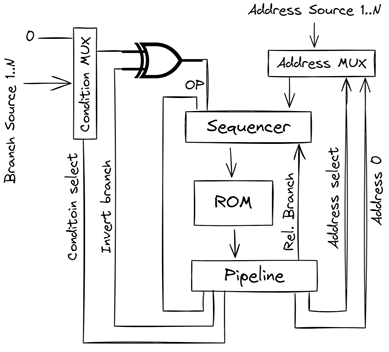
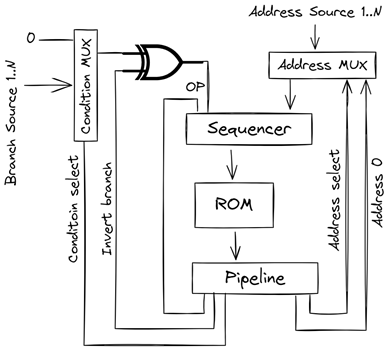
Check for leading/trailing branches

Changed region(s): [[0.0, 0.0, 0.9897, 0.9972]]

diff --git a/Verilog/microcoded/roms/CompilerTest.py b/Verilog/microcoded/roms/CompilerTest.py
@@ -8,5 +8,94 @@ class TestStringMethods(unittest.TestCase):
         p = Parser()
         self.assertEqual(str(p.parse('const control = 7;')), '(None (const ID(control) INT(7)))')
 
+    def test_loop(self):
+        p = Parser()
+        tree = p.parse('''def main {
+                       loop { a=1; }
+                       do { b=1; } while 1;
+                       c=1, call X;
+                       d=1, return;
+                       e=1, while 1 {
+                            f=1;
+                       }
+                       g=1;
+                       h=1, if 1 { i=1; }
+                       }''')
+        stat_list = tree[0][1]
+        tailBranches = [self.isTailBranch(stat) for stat in stat_list]
+        self.assertEqual(tailBranches, [True, True, True, True, True, False, False])
+        headBranches = [self.isHeadBranch(stat) for stat in stat_list]
+        self.assertEqual(headBranches, [False, False, True, True, True, False, True])
+
+    def getBranch(self, stat):
+        if stat[0].value.name in ('loop', 'do'):
+            return stat[0].value.name
+        for op in stat:
+            if op.value.name in ('call', 'return', 'while', 'if'):
+                return op.value.name
+        return ''
+
+    def isHeadBranch(self, stat):
+        return self.getBranch(stat) in ('call', 'return', 'while', 'if')
+
+    def isTailBranch(self, stat):
+        return self.getBranch(stat) in ('loop', 'do', 'call', 'return', 'while')
+
+    def test_loop_error(self):
+        p = Parser()
+        try:
+            tree = p.parse('''def main {
+                        loop { loop { a=1; } }
+                        }''')
+            self.fail()
+        except Exception as e:
+            self.assertTrue(str(e).endswith('loop not allowed here'))
+
+    def test_while_error(self):
+        p = Parser()
+        try:
+            tree = p.parse('''def main {
+                        loop { while 1 { a=1; } }
+                        }''')
+            self.fail()
+        except Exception as e:
+            self.assertTrue(str(e).endswith('while not allowed here'))
+
+    def test_do_error(self):
+        p = Parser()
+        try:
+            tree = p.parse('''def main {
+                        loop { do { a=1; } while 1; } }
+                        }''')
+            self.fail()
+        except Exception as e:
+            self.assertTrue(str(e).endswith('do not allowed here'))
+
+    def test_call_error(self):
+        p = Parser()
+        try:
+            tree = p.parse('''def main {
+                        loop { call X; } }
+                        }''')
+            self.fail()
+        except Exception as e:
+            self.assertTrue(str(e).endswith('call not allowed here'))
+
+    def test_return_error(self):
+        p = Parser()
+        try:
+            tree = p.parse('''def main {
+                        loop { return; } }
+                        }''')
+            self.fail()
+        except Exception as e:
+            self.assertTrue(str(e).endswith('return not allowed here'))
+
+    def test_if_error(self):
+        p = Parser()
+        tree = p.parse('''def main {
+                    loop { if 1 { a=1; } }
+                    }''')
+
 if __name__ == '__main__':
     unittest.main()

diff --git a/Verilog/microcoded/roms/Generator.py b/Verilog/microcoded/roms/Generator.py
@@ -20,7 +20,7 @@ class MicroWord(object):
         self.dest_proc_name = None
         self.pc = 0
 
-    def update(self, field_name, value, lineNumber=-1, check=True):
+    def update(self, field_name, value, lineNumber=-1):
         if field_name not in self.fields:
             raise Exception(f'line {lineNumber}, No such field: {field_name}')
         self.field_values[field_name] = value
@@ -33,17 +33,13 @@ class MicroWord(object):
         else:
             shift = i2
         mask <<= shift
-        if mask & self.used_bits != 0 and check:
+        if mask & self.used_bits != 0:
             raise Exception(f"line {lineNumber}: field '{field_name}' already assigned")
         self.used_bits |= mask
         value <<= shift
         self.word &= ~mask
         self.word |= value
         return value
-
-    def updateAddress(self, offset):
-        value = self.field_values['seq.address'] + offset
-        self.update('seq.address', value, check=False)
 
     def is_branch(self):
         return self.field_values['seq.op'] != 0 or self.field_values['seq.condition'] != 0
@@ -53,7 +49,7 @@ class MicroWord(object):
             if self.dest_proc_name not in procAddresses:
                 raise Exception(f'Nonexistent procedure: {self.dest_proc_name}')
             addr = procAddresses[self.dest_proc_name]
-            self.update('seq.address', addr-self.pc-1, check=False)
+            self.update('seq.address', addr-self.pc-1)
 
     def genComment(self):
         fields = [f'{name}={value}' for name, value in self.field_values.items()]
@@ -143,7 +139,7 @@ class MicroWordBlock(object):
                 tail_word = self.outputWords[-1]
                 tail_word.update('seq.op', SEQ_OP_JUMP, lineNumber)
                 tail_word.update('seq.address', -len(block)-1, lineNumber)
-                word.update('seq.address', len(block), lineNumber, check=False)
+                word.update('seq.address', len(block), lineNumber)
                 return
             if op.value.name == 'if':
                 if stat[op_index].value.name == 'not':
@@ -160,7 +156,7 @@ class MicroWordBlock(object):
                 self.outputWords.extend(block.outputWords)
                 self.callWords.extend(block.callWords)
                 if len(stat) > op_index:
-                    word.update('seq.address', len(block), lineNumber, check=False)
+                    word.update('seq.address', len(block), lineNumber)
                     word = self.outputWords[-1]
                     word.update('seq.op', SEQ_OP_JUMP, lineNumber)
                     stat_list = stat[op_index]
@@ -168,7 +164,7 @@ class MicroWordBlock(object):
                     block = MicroWordBlock(self.fields, self.expr, self.big_endian, self.seq_width, stat_list)
                     self.outputWords.extend(block.outputWords)
                     self.callWords.extend(block.callWords)
-                word.update('seq.address', len(block), lineNumber, check=False)
+                word.update('seq.address', len(block), lineNumber)
                 return
             if op.value.name == 'switch':
                 addr_mux = self.expr.eval(stat[op_index])

diff --git a/Verilog/microcoded/roms/Compiler.py b/Verilog/microcoded/roms/Compiler.py
@@ -188,24 +188,43 @@ class Parser(object):
             return tree
         tree = Tree(self.sc.expect('def'))
         tree.add(self.sc.expect('ID'))
-        tree.add(self.parseStatList())
+        tree.add(self.parseStatList(noHeadBranch=False, noTailBranch=False))
         return tree
 
-    def parseStatList(self):
+    def getBranch(self, stat):
+        if stat[0].value.name in ('loop', 'do'):
+            return stat[0].value.name
+        for op in stat:
+            if op.value.name in ('call', 'return', 'while', 'if'):
+                return op.value.name
+        return ''
+
+    def isHeadBranch(self, stat):
+        return self.getBranch(stat) in ('call', 'return', 'while', 'if')
+
+    def isTailBranch(self, stat):
+        return self.getBranch(stat) in ('loop', 'do', 'call', 'return', 'while')
+
+    def parseStatList(self, noHeadBranch=True, noTailBranch=True):
         tree = Tree(self.sc.expect('{'))
         while not self.sc.matches('}'):
             tree.add(self.parseStatement())
+        head, tail = tree[0], tree[-1]
+        if noHeadBranch and self.isHeadBranch(head):
+            raise Exception(f'line {head.value.lineNumber}: {self.getBranch(head)} not allowed here')
+        if noTailBranch and self.isTailBranch(tail):
+            raise Exception(f'line {tail.value.lineNumber}: {self.getBranch(tail)} not allowed here')
         return tree
 
     def parseStatement(self):
         tree = Tree(Terminal('stat', 'stat'))
         if self.sc.matches('loop'):
             tree.add(self.sc.terminal)
-            tree.add(self.parseStatList())
+            tree.add(self.parseStatList(noHeadBranch=False))
             return tree
         if self.sc.matches('do'):
             tree.add(self.sc.terminal)
-            tree.add(self.parseStatList())
+            tree.add(self.parseStatList(noHeadBranch=False))
             self.sc.expect('while')
             if self.sc.matches('not'):
                 tree.add(self.sc.terminal)
@@ -228,7 +247,7 @@ class Parser(object):
             tree.add(self.parseExp())
             tree.add(self.parseStatList())
             if self.sc.matches('else'):
-                tree.add(self.parseStatList())
+                tree.add(self.parseStatList(noTailBranch=False))
             return tree
         if self.sc.matches('while'):
             tree.add(self.sc.terminal)

diff --git a/Verilog/microcoded/README.md b/Verilog/microcoded/README.md
@@ -8,7 +8,7 @@ This directory contains a general purpose microcode sequencer in Verilog influen
 There are a few differences in this design:
 
 * Scalable design, rather than a series of bit-slices
-* Built in adder to support relative branching
+* Built in adder to support relative only branching (position independent code)
 
 ## Microprogramming
 
@@ -22,6 +22,5 @@ Historically, writing microcode was one step below assembly language programming
 
 TODO:
 
-* Always use relative branches (deprecate absolute branch)
 * Check for nested leading/trailing branches in statement lists (Compiler)
 * Check for overlapping field assignments (Generator)
